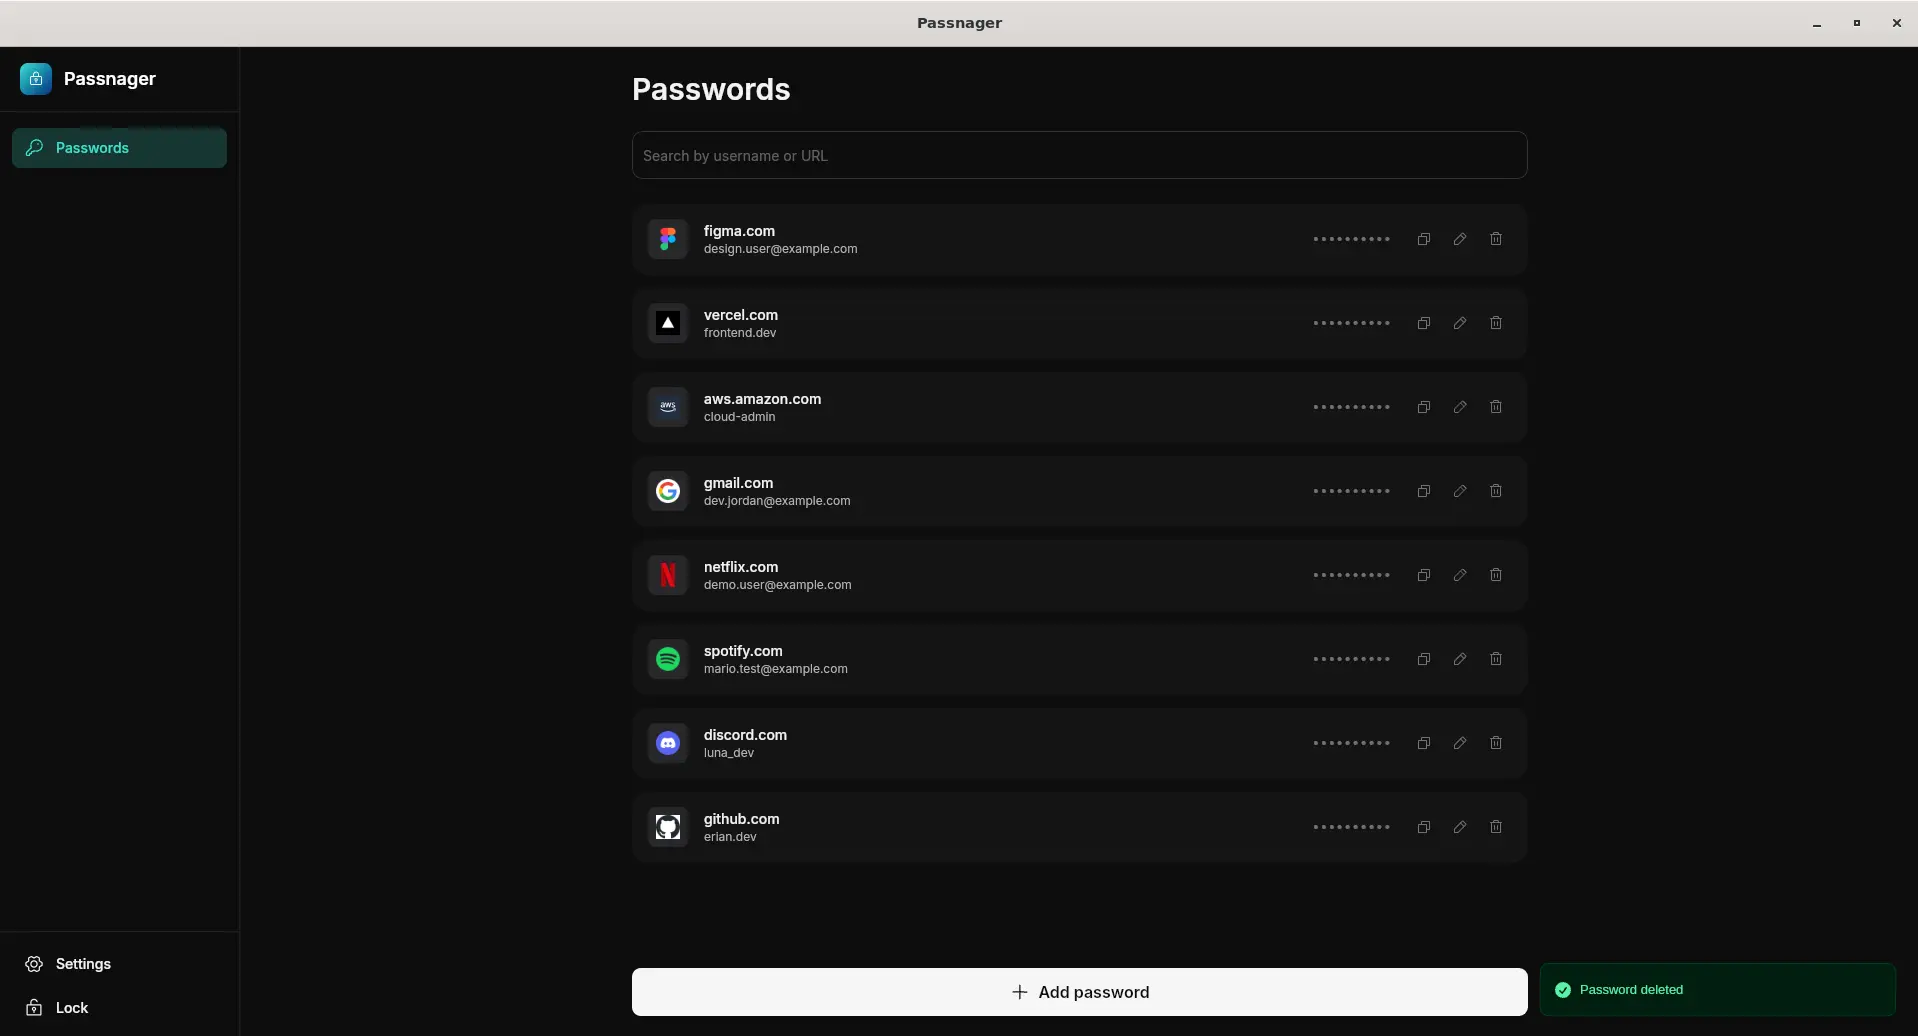
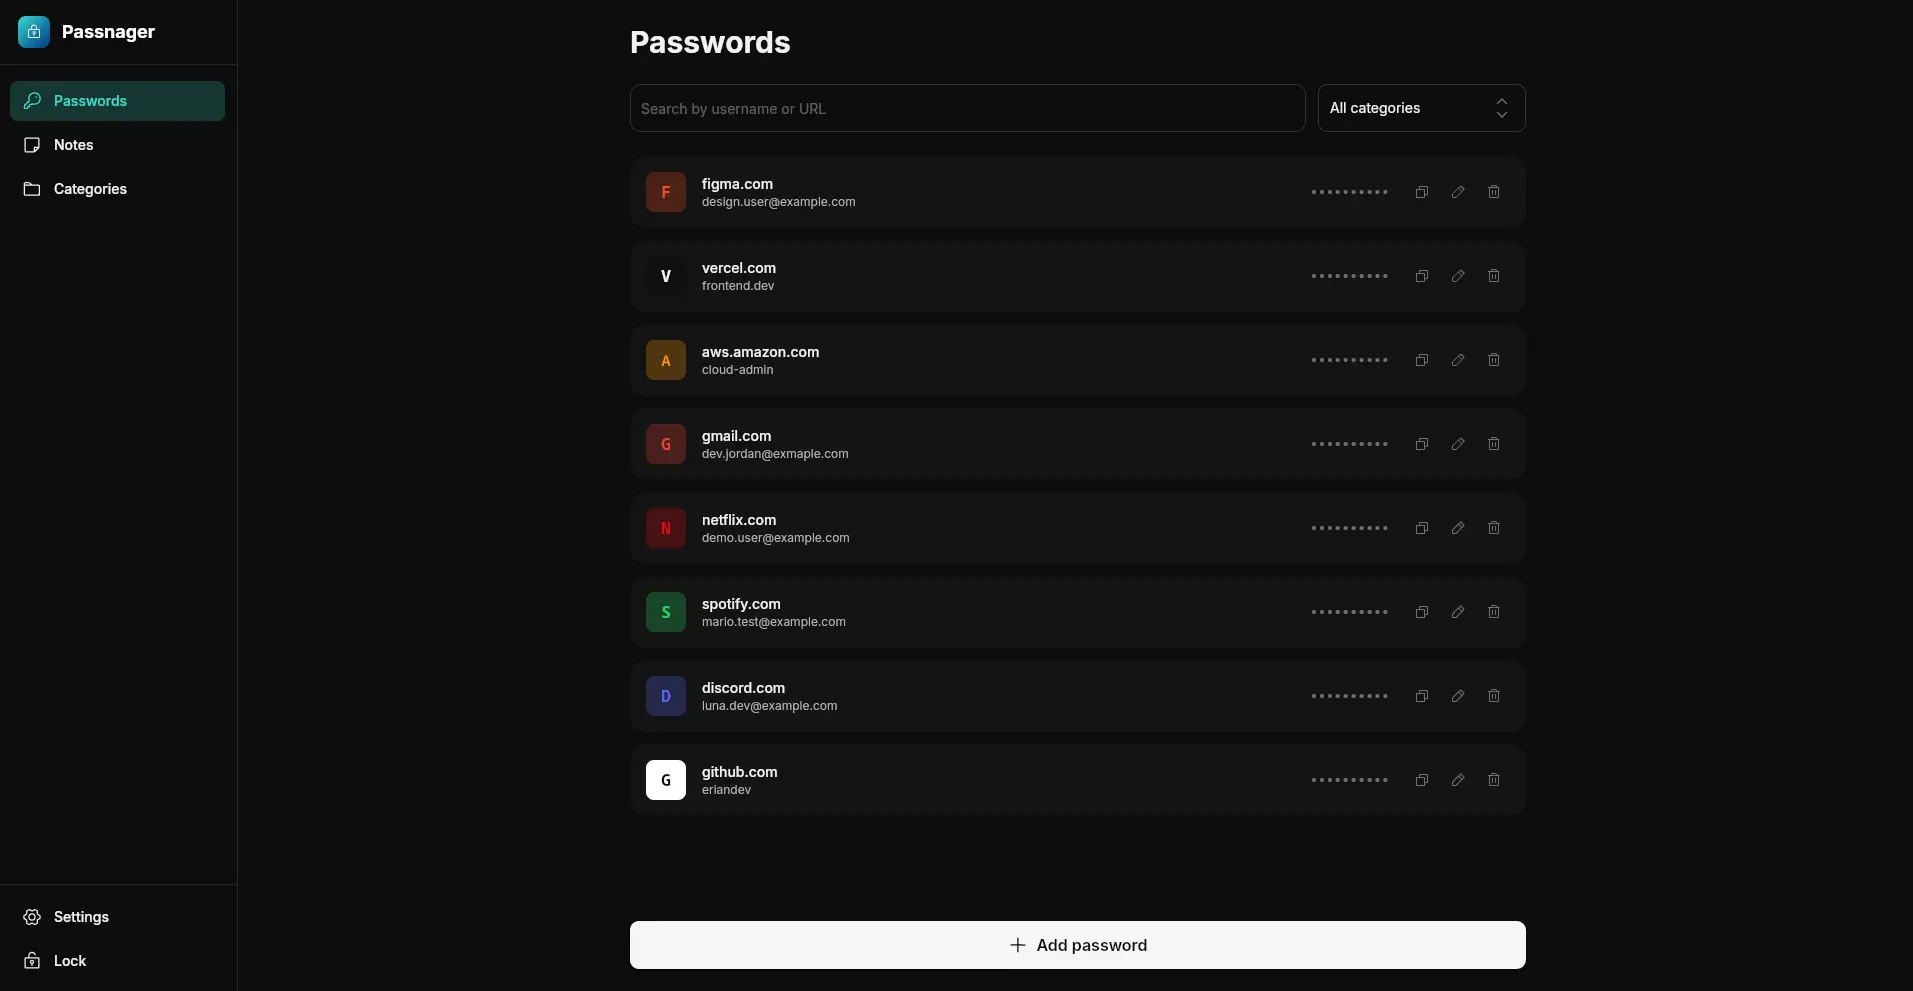
docs: describe the new features, security & update preview

diff --git a/README.md b/README.md
@@ -21,11 +21,19 @@
 
 ## ✨ About
 
-**Passnager** is a desktop password manager focused on privacy, simplicity and local data ownership.
+**Passnager** is a desktop password and notes manager focused on privacy, simplicity and local data ownership.
 
-Your vault is stored locally on your device and protected with modern cryptographic primitives, without requiring a cloud account or remote server.
+Your vault (passwords and notes alike) is stored locally on your device and protected with modern cryptographic primitives, without requiring a cloud account or remote server.
 
 The project is built with **SvelteKit + Tauri 2**, combining a modern web UI with a lightweight native desktop application.
+
+## ⭐ Features
+
+- **Passwords** — store, search and copy login credentials from an easy-to-browse list.
+- **Encrypted notes** — free-form notes encrypted at rest, organised with colours and categories.
+- **Categories** — colour-coded groups that keep the vault tidy.
+- **Session lock** — nothing in the vault is reachable while locked; the master password opens it.
+- **Clipboard** — copy a decrypted value straight to the clipboard.
 
 ## 🖥 Preview
 
@@ -46,11 +54,22 @@ Sensitive vault data is encrypted before being persisted locally using:
 | **Random nonce** | Unique nonce per encryption operation |
 | **SQLite**       | Local persistent storage              |
 
-The application does not require your vault to be stored on a remote server.
+All vault access (passwords, notes and categories) is routed through the unlocked session, so nothing can be read or written while the vault is locked. Encrypted content is decrypted on demand rather than cached in memory, and the database schema validates stored values (colour format, note length) before they are written.
+
+The application does not require your vault to be stored on a remote server, and it never phones home either: fonts are self-hosted, password cards render locally-generated initial avatars instead of fetching third-party favicons, and a strict Content Security Policy blocks every remote origin (in dev and release builds alike).
 
 > [!WARNING]  
 > Passnager is currently under active development and has **not been independently security audited**.
 > Do not rely on it for critical secrets until you have reviewed the implementation and accepted the associated risks.
+
+### 📝 Logging
+
+Logs help explain failures without guessing:
+
+- **Development builds** print log entries to the terminal as they happen.
+- **Release builds** write to `passnager.log` in the app's config directory, next to the vault file.
+
+When a release build fails to start, nothing you hold (a password, a note or a category) has been read or written — the log records the reason it refused to launch instead.
 
 ## 🛠 Tech Stack
 
@@ -130,6 +149,7 @@ Release builds are generated automatically through GitHub Actions.
 ## 🗺 Roadmap
 
 - [x] Password categories
+- [x] Encrypted notes
 - [ ] Password generator
 - [ ] Password strength analysis
 - [ ] Import / export
